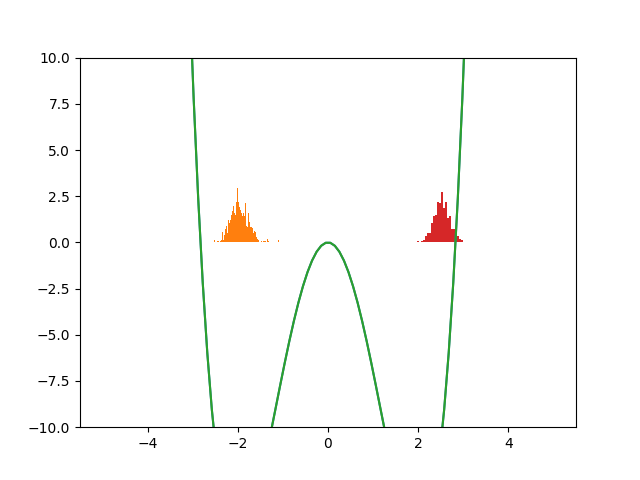
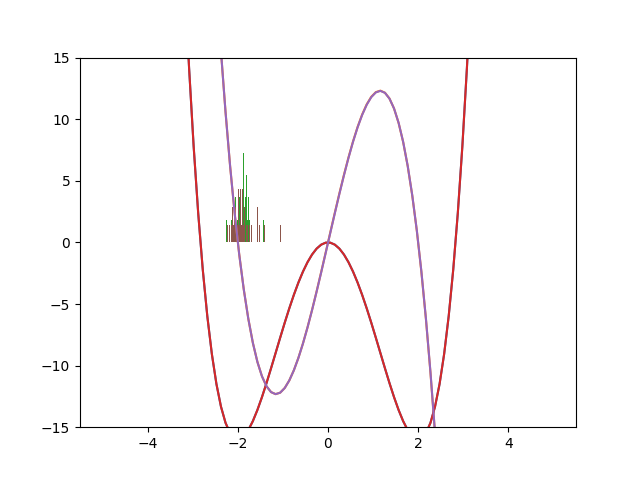
first draft: undoubtedly riddled with mistakes

diff --git a/src/path_sampling.py b/src/path_sampling.py
@@ -5,10 +5,12 @@ import numpy as np
 import matplotlib.pyplot as plt
 import optax 
 
-batch_size = 8
+# number of paths sampled in one run of calculating dbds. We could handle with parallelization (pmap)
+batch_size = 1000
 import os
 os.environ["XLA_FLAGS"] = "--xla_force_host_platform_device_count=" + str(batch_size)
 
+# currently I'm just doing an SDE on \mathbb{R}
 ndims = 1
 
 def sample_sde(b, W, rho, dt, num_steps, key):
@@ -27,57 +29,43 @@ def sample_sde(b, W, rho, dt, num_steps, key):
     return jax.lax.scan(body, (X_0, 0), keys)[1]
 
 
+# currently set for TPS
 def J(x,y):
-    return (x[-1, :] > 2.).astype(jnp.float32)
+    return (x[-1, :] > 0.).astype(jnp.float32)
 
 def E_J(paths, obs):
-    return jnp.mean(J(paths, obs),axis=1)
-    # return -J(paths) # todo: what is J in 7??
+    return jnp.mean(jax.vmap(J)(paths, obs),axis=0)
 
 def make_h(b, dbds):
 
     @jax.jit
     def h(x, time):
-        # shapes
         # x: [steps, ndims]
         # time: [steps]
 
-        # print(x.shape, time.shape, "x, time")
-
         dt = time[0]
-        # print(dt, "dt")
-
-        # dxdt = x[1:, :] - x[:-1, :]
+        # TODO: consider whether this treatment of the gradient is correct
         dxdts = jnp.concatenate([jnp.zeros((1, x.shape[1])) , x[1:, :] - x[:-1, :]], axis=0)
-        # print("xdot shape", dxdts.shape)
 
-        # calculate divergence of dbds
-        div_dbdss = jax.vmap(lambda x, t: jnp.trace(jax.jacobian(lambda x: b(x,t))(x)))(x, time)
-        # print(div_dbdss.shape)
+        # calculate divergence of dbds at all times, using the trace of the jacobian
+        div_dbdss = jax.vmap(lambda xt, t: jnp.trace(jax.jacobian(lambda k: dbds(jnp.expand_dims(k,0),t)[0])(xt)))(x, time)
 
+        # the discretized integral
         out = jax.vmap(lambda x, t, dxdt, div_dbds: 
                     
-                    -0.5*dt*((b(x,t) - dxdt).dot(dbds(jnp.expand_dims(x,0),jnp.expand_dims(t,0))[0]) + 0.5*div_dbds)
+                    -0.5*dt*((b(x,t) - dxdt).dot(dbds(jnp.expand_dims(x,0),t)[0]) + 0.5*div_dbds)
                     )(x,time, dxdts, div_dbdss)
-        return jnp.sum(out) 
-        # raise Exception
         
-        return -0.5*dt*jnp.sum(jnp.array([(b(t,x) - dxdt).dot(dbds(t, x[t]) + 0.5*div_dbds) for t in range(num_steps)]))
+        return jnp.sum(out) 
 
-
-        # dbds = jax.grad(b)(x)
-        # (b(x) - dxdt). dot(dbds) + 0.5*dbds
-        pass
 
     return h
 
+# compute the loss function, which here is the square of the difference between the left and right of (7)
 def make_h_loss(expectation_of_J, b):
     
     def h_loss(dbds, xs, times, ys):
 
-        # jax.debug.print("xs {x}", x=(xs[0].shape, times[0].shape))
-        # print(make_h(b,dbds)(xs[0], times[0]))
-        # return 1.0
 
         h = make_h(b, dbds)
 
@@ -88,9 +76,8 @@ def make_h_loss(expectation_of_J, b):
 
     return h_loss        
 
+# parametrize dbds by a neural net, and minimize h_loss
 def find_dbds(model_key, expectation_of_J, b, xs, times, ys, num_training_steps):
-
-    model_key, data_key = jax.random.split(model_key)
 
     # initialize model
     dbds = MLP([2,20,20,1], key=model_key)
@@ -103,14 +90,12 @@ def find_dbds(model_key, expectation_of_J, b, xs, times, ys, num_training_steps)
 
     return dbds
 
+# b \mapsto b + dbds
 def update(b, hyperparams, key):
 
-    model_key, init_key = jax.random.split(key)
+    # b : [ndims] -> [1]
 
-    optimizer = optax.adam(1e-3)
-    # Obtain the `opt_state` that contains statistics for the optimizer.
-    params = {'w': jax.random.normal(key=init_key, shape=(hyperparams['num_steps'],ndims))}
-    opt_state = optimizer.init(params)
+    path_key, model_key = jax.random.split(key)
 
     xs, times = jax.pmap(lambda key:sample_sde(
     b=b, 
@@ -118,13 +103,16 @@ def update(b, hyperparams, key):
     rho = lambda key: jnp.ones((ndims,))-2.,
     key=key, 
     dt=hyperparams['dt'], 
-    num_steps=hyperparams['num_steps']))(jax.random.split(jax.random.key(0), batch_size))
+    num_steps=hyperparams['num_steps']))(jax.random.split(path_key, batch_size))
 
 
-    x = np.linspace(-5, 5, 100)
+    x = jnp.expand_dims(jnp.linspace(-5, 5, 100), 1)
     y = (x**4 - 8 * x**2)
-    plt.ylim(-10,10)
+    # y2 = jax.grad(lambda x: jnp.sum(x**4 - 8 * x**2))(x)
+    y2 = jax.vmap(lambda k: b(k, 0.1))(x)
+    plt.ylim(-15,15)
     plt.plot(x, y)
+    plt.plot(x,y2)
 
     # time = np.arange(num_steps)*dt
     # plt.scatter(path, time )
@@ -138,17 +126,13 @@ def update(b, hyperparams, key):
     
     ys = (xs > 0).astype(jnp.float32)
 
-    expectation_of_J = E_J(xs, ys).mean(axis=0)
-    # dbds = MLP([2,20,20,1], key=model_key)
+    expectation_of_J = E_J(xs, ys) # .mean(axis=0)
 
+    # dbds = MLP([2,20,20,1], key=model_key)
     # print("input to thing", xs[0].shape, times[0].shape)
     # print(make_h(b, dbds)(xs[0], times[0]))
     # h = make_h(b, dbds)
-    
     # print(expectation_of_J.shape)
-    
-
-
     # print(b(xs[0][0],0.0))
     # print(dbds(jnp.expand_dims(xs[0][0],0), 0.0))
 
@@ -175,108 +159,109 @@ def update(b, hyperparams, key):
         num_training_steps=hyperparams['num_training_steps']
         )
     
-    print(dbds(xs[:, 0, :],0.1))
-    print(dbds(xs[:, 0, :],0.01))
+
+    test_xs, test_times = jax.pmap(lambda key:sample_sde(
+        b=b, 
+        W = lambda _, key: jnp.sqrt(2)*jax.random.normal(key, shape=(ndims,)),
+        rho = lambda key: jnp.ones((ndims,))-2.,
+        key=key, 
+        dt=hyperparams['dt'], 
+        num_steps=hyperparams['num_steps']))(jax.random.split(jax.random.key(500), batch_size))
+
+    test_ys = (xs > 0).astype(jnp.float32)
+
+
+    print(make_h_loss(expectation_of_J=expectation_of_J, b=b)(
+        dbds,
+        test_xs,
+        test_times,
+        test_ys
+    ), "LOSS\n")
 
     ## TODO: you need to pass in the algorithmic time!!! or not?
-    # raise Exception
     
-    # print("dbds", dbds)
+    new_b =  lambda x, t: (b(x,t) + dbds(jnp.expand_dims(x, 0),t)[0])
+    # new_b =  lambda x, t: (dbds(jnp.expand_dims(x, 0)[0],t))
 
-    
-    
+    # print(b(xs[0, 0, :],0.1).shape)
+    # print(new_b(xs[0, 0, :],0.1).shape)
+    # print(jax.grad(lambda x: jnp.sum(x**4 - 8 * x**2,axis=0))(xs[0, 0, :]).shape)
+    # print(dbds(jnp.expand_dims(xs[0, 0, :],0),0.1)[0].shape)
 
+    # new_b(xs[:, 0, :],0.1)
 
+    return new_b
 
-
-
-    # for i in range(2):
-
-    #     # loss = lambda params: jnp.sum(params['w'])
-
-    #     grads = jax.grad(loss)(params, b=b_tabulated, xs=x, ys=y)
-    #     # print(grads)
-    #     updates, opt_state = optimizer.update(grads, opt_state)
-    #     print(params)
-    #     params = optax.apply_updates(params, updates)
-
-    return lambda x, t: b(x,t) + dbds(jnp.expand_dims(x, 0),t)[0]
- 
-
-
-
-    # paths = jax.pmap(lambda key: sample_sde(
-    #     b=lambda x: -jax.grad(potential)(x), 
-    #     W = lambda _, key: jnp.sqrt(2)*jax.random.normal(key),
-    #     rho = lambda key: jax.random.normal(key),
-    #     key=key,
-    #     )(dt, 1000)
-    #     )(jax.random.split(jax.random.key(0), batch_size))
-    
-    # minimize loss
-
-potential = lambda x: (x**4 - 8 * x**2)[0]
-# path  = sample_sde(
-#     b=lambda x: -jax.grad(potential)(x), 
-#     W = lambda _, key: jnp.sqrt(2)*jax.random.normal(key, shape=(1,)),
-#     rho = lambda key: jnp.ones((1,))-2.,
-#     key=jax.random.key(0)
-#     )(0.01, num_steps)
-
-# print(path.shape)
+   
+potential = lambda x: jnp.sum(x**4 - 8 * x**2,axis=0)
 
 schedule = [0.0, 0.1]
 
-b = lambda x, t: -jax.grad(potential)(x)
+
+def b(x, t): 
+    assert x.shape[0] == ndims
+    return -jax.grad(potential)(x)
+
+
 key = jax.random.key(0)
 for i, _ in enumerate(schedule):
+
+
 
     key = jax.random.fold_in(key, i)
 
     b = update(b=b,
-        hyperparams={'dt': 0.01, 'num_steps': 1000, 'num_training_steps' : 1000},
+        hyperparams={'dt': 0.01, 'num_steps': 50, 'num_training_steps' : 1000},
         key=key
     )
     print("NEXT ITER")
 
 
-raise Exception
 
 
 
-    # dbds = find_dbds(s, b)
 
 
 
-# double well potential
-potential = lambda x: (x**4 - 8 * x**2)[0]
 
-# plot potential
-dt = 0.01
-path  = sample_sde(
-    b=lambda x: -jax.grad(potential)(x), 
-    W = lambda _, key: jnp.sqrt(2)*jax.random.normal(key, shape=(1,)),
-    rho = lambda key: -2.,
-    key=jax.random.key(0)
-    )(dt, num_steps)
 
-# paths = jax.pmap(lambda key: sample_sde(
+
+
+
+
+#     # dbds = find_dbds(s, b)
+
+
+
+# # double well potential
+# potential = lambda x: (x**4 - 8 * x**2)[0]
+
+# # plot potential
+# dt = 0.01
+# path  = sample_sde(
 #     b=lambda x: -jax.grad(potential)(x), 
-#     W = lambda _, key: jnp.sqrt(2)*jax.random.normal(key),
-#     rho = lambda key: jax.random.normal(key),
-#     key=key,
-#     )(dt, 1000)
-#     )(jax.random.split(jax.random.key(0), batch_size))
+#     W = lambda _, key: jnp.sqrt(2)*jax.random.normal(key, shape=(1,)),
+#     rho = lambda key: -2.,
+#     key=jax.random.key(0)
+#     )(dt, num_steps)
+
+# # paths = jax.pmap(lambda key: sample_sde(
+# #     b=lambda x: -jax.grad(potential)(x), 
+# #     W = lambda _, key: jnp.sqrt(2)*jax.random.normal(key),
+# #     rho = lambda key: jax.random.normal(key),
+# #     key=key,
+# #     )(dt, 1000)
+# #     )(jax.random.split(jax.random.key(0), batch_size))
 
 
-# print(E_J(paths, None))
+# # print(E_J(paths, None))
 
-x = np.linspace(-5, 5, 100)
-y = potential(x)
-plt.ylim(-10,10)
-plt.plot(x, y)
+# x = np.linspace(-5, 5, 100)
+# y = potential(x)
+# plt.ylim(-10,10)
+# plt.plot(x, y)
 
-time = np.arange(num_steps)*dt
-# plt.scatter(path, time )
-plt.hist(path, bins=30, density=True)
-plt.savefig('potential.png')
+# time = np.arange(num_steps)*dt
+# # plt.scatter(path, time )
+# plt.hist(path, bins=30, density=True)
+# plt.savefig('potential.png')
